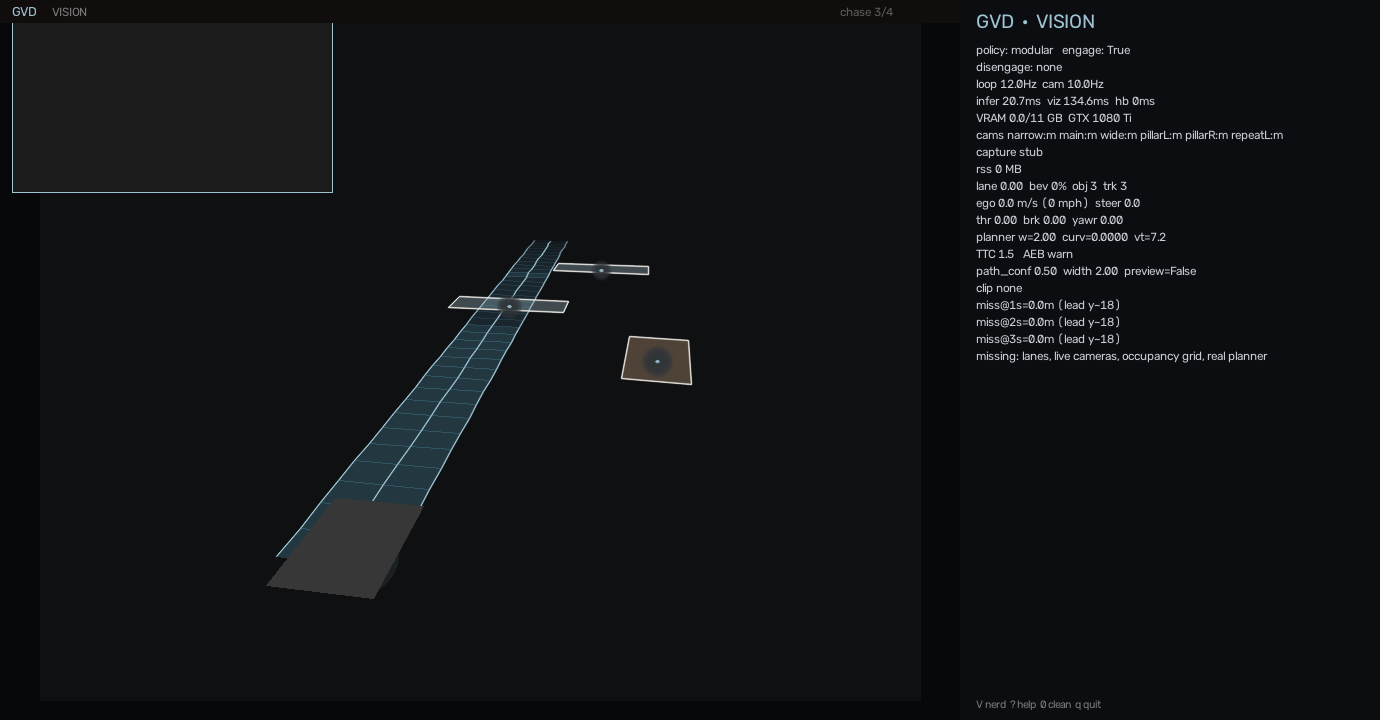
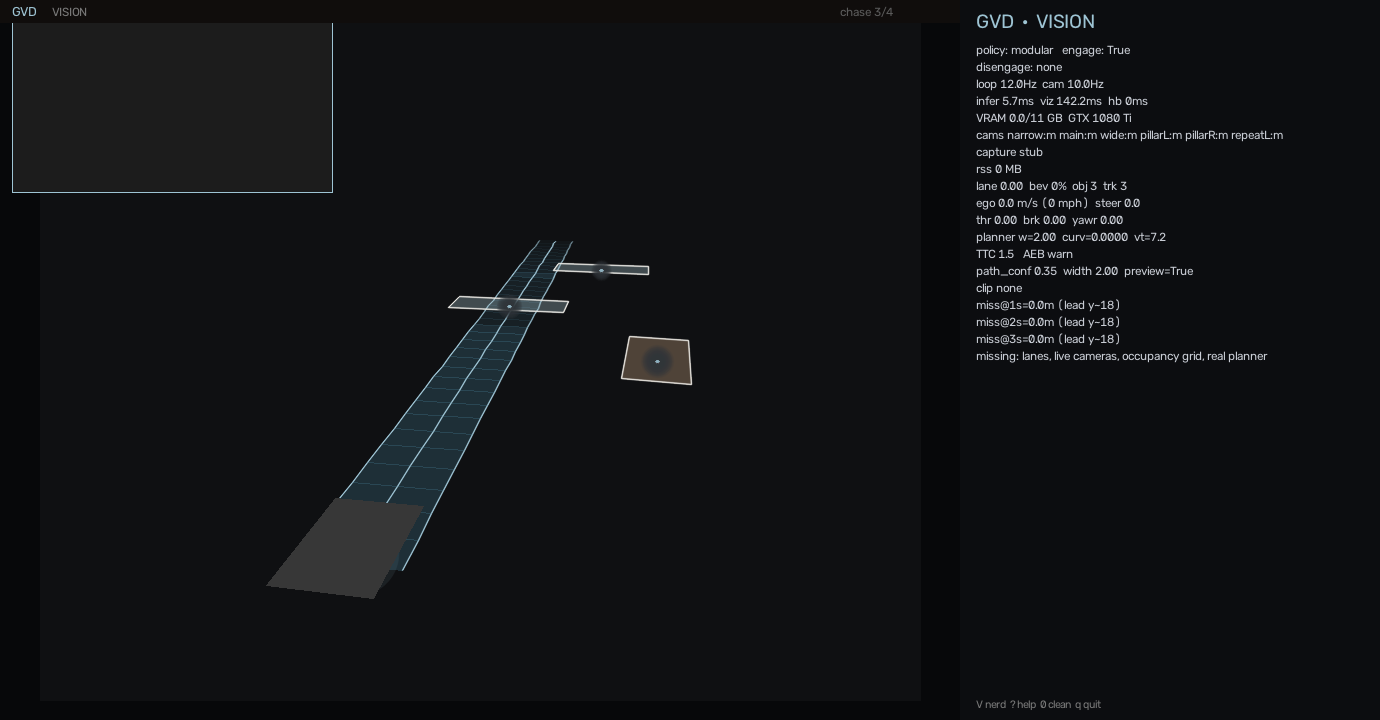
fix(m2): Critic 1–5 — honest path_debug_preview, no live synth
Corridor from_planner only on lane-derived path; live default empty
detector + ego_v=0 (no invented TTC); schema/README/export docs.

diff --git a/python/planning/corridor.py b/python/planning/corridor.py
@@ -13,7 +13,7 @@ class CorridorResult:
     path_width: float
     path_conf: float
     curvature: float
-    from_planner: bool  # True → path_debug_preview=false
+    from_planner: bool  # True → path_debug_preview=false (lane-derived only)
 
 
 def build_path_ego(
@@ -27,34 +27,55 @@ def build_path_ego(
     step: float = 1.0,
     path_width: float = 2.0,
 ) -> CorridorResult:
-    # Lane center if we have left+right
+    """Build path_ego.
+
+    `from_planner=True` only when left+right lanes produced a center line.
+    Geometric/steer fallback keeps from_planner=False → path_debug_preview stays true.
+    """
     center_xy: list[tuple[float, float]] = []
+    from_lanes = False
     if len(lanes_bev) >= 2 and lane_conf >= 0.5:
-        # pair by y buckets
         left = sorted(lanes_bev[0], key=lambda p: p["y"])
         right = sorted(lanes_bev[1], key=lambda p: p["y"])
         for i in range(0, min(len(left), len(right), int(length_m))):
-            center_xy.append(((left[i]["x"] + right[i]["x"]) * 0.5, (left[i]["y"] + right[i]["y"]) * 0.5))
-    if not center_xy:
-        # geometric corridor from curvature / steer
+            center_xy.append(
+                (
+                    (left[i]["x"] + right[i]["x"]) * 0.5,
+                    (left[i]["y"] + right[i]["y"]) * 0.5,
+                )
+            )
+        from_lanes = len(center_xy) >= 2
+
+    if not from_lanes:
         curv = curvature if abs(curvature) > 1e-4 else (steer_deg / 30.0) * 0.03
         x = y = heading = 0.0
+        center_xy = []
         for _ in range(int(length_m / step) + 1):
             center_xy.append((x, y))
             y += step
             heading += curv * step
             x += math.sin(heading) * step * 0.5
 
-    # nudge path away from CIPV if slightly offset
-    if cipv is not None:
+    if from_lanes and cipv is not None:
         lx = float(cipv.get("x", 0))
         if abs(lx) < path_width:
             shift = -0.3 * (1 if lx >= 0 else -1)
             center_xy = [(x + shift, y) for x, y in center_xy]
 
     path = [{"x": float(x), "y": float(y), "z": 0.0} for x, y in center_xy]
-    conf = max(0.35, min(1.0, 0.4 + 0.5 * lane_conf))
-    if cipv is not None:
-        conf = min(1.0, conf + 0.1)
-    # Always a planner path (even geometric) — not steer-preview stub
-    return CorridorResult(path_ego=path, path_width=path_width, path_conf=conf, curvature=float(curvature), from_planner=True)
+    if from_lanes:
+        conf = max(0.45, min(1.0, 0.4 + 0.5 * lane_conf))
+        if cipv is not None:
+            conf = min(1.0, conf + 0.1)
+        curv_out = float(curvature)
+    else:
+        conf = 0.35
+        curv_out = float(curvature if abs(curvature) > 1e-4 else (steer_deg / 30.0) * 0.03)
+
+    return CorridorResult(
+        path_ego=path,
+        path_width=path_width,
+        path_conf=conf,
+        curvature=curv_out,
+        from_planner=from_lanes,
+    )

diff --git a/scripts/download_yolov8n.py b/scripts/download_yolov8n.py
@@ -1,9 +1,16 @@
 #!/usr/bin/env python3
-"""Download YOLOv8n and optionally export ONNX @640 into models/ (gitignored weights)."""
+"""Download YOLOv8n and export ONNX @640 into models/ (gitignored).
+
+Reliable one-liner (preferred):
+  pip install ultralytics
+  yolo export model=yolov8n.pt format=onnx imgsz=640 simplify=True
+  mv yolov8n.onnx models/yolov8n.onnx
+"""
 
 from __future__ import annotations
 
 import argparse
+import shutil
 from pathlib import Path
 
 ROOT = Path(__file__).resolve().parents[1]
@@ -11,35 +18,28 @@ MODELS = ROOT / "models"
 
 
 def main() -> None:
-    ap = argparse.ArgumentParser()
-    ap.add_argument("--onnx", action="store_true", help="Export models/yolov8n.onnx @ imgsz 640")
+    ap = argparse.ArgumentParser(description=__doc__)
+    ap.add_argument("--onnx", action="store_true", default=True)
+    ap.add_argument("--no-onnx", action="store_true")
     args = ap.parse_args()
     MODELS.mkdir(parents=True, exist_ok=True)
     from ultralytics import YOLO
 
-    model = YOLO("yolov8n.pt")  # downloads to cwd/cache then we copy intent
-    pt = MODELS / "yolov8n.pt"
-    # ultralytics caches; save explicitly
-    model.save(str(pt)) if hasattr(model, "save") else None
-    # Prefer writing via export path
-    if not pt.exists():
-        # model.ckpt path
-        src = Path(model.ckpt_path) if hasattr(model, "ckpt_path") else None
-        if src and src.exists():
-            pt.write_bytes(src.read_bytes())
-        else:
-            # re-load downloads into models via export trick
-            model = YOLO("yolov8n.pt")
-            print(f"[GVD] ultralytics has yolov8n; place weights in {pt} if missing")
-    if args.onnx:
-        model = YOLO(str(pt) if pt.exists() else "yolov8n.pt")
-        out = model.export(format="onnx", imgsz=640, simplify=True)
-        out_p = Path(out)
-        dest = MODELS / "yolov8n.onnx"
-        if out_p.exists():
-            dest.write_bytes(out_p.read_bytes())
-            print(f"[GVD] wrote {dest}")
-    print(f"[GVD] done. gitignore covers *.pt / *.onnx under models/")
+    print("[GVD] loading yolov8n.pt via ultralytics…")
+    model = YOLO("yolov8n.pt")
+    if args.no_onnx:
+        print("[GVD] skipped ONNX; run: yolo export model=yolov8n.pt format=onnx imgsz=640")
+        return
+    print("[GVD] exporting ONNX imgsz=640…")
+    out = model.export(format="onnx", imgsz=640, simplify=True)
+    out_p = Path(str(out))
+    dest = MODELS / "yolov8n.onnx"
+    if out_p.exists():
+        shutil.copy2(out_p, dest)
+        print(f"[GVD] wrote {dest}")
+    else:
+        print("[GVD] export returned no file — use the yolo export one-liner in the docstring")
+    print("[GVD] weights are gitignored (*.pt / *.onnx).")
 
 
 if __name__ == "__main__":

diff --git a/python/run_vision.py b/python/run_vision.py
@@ -54,7 +54,11 @@ def main() -> None:
     ap.add_argument("--hz", type=float, default=15.0)
     ap.add_argument("--backend", default="auto", choices=["auto", "beamngpy", "window", "stub"])
     ap.add_argument("--vision-only", action="store_true")
-    ap.add_argument("--no-synthetic-detect", action="store_true", help="Do not use synthetic dets without weights")
+    ap.add_argument(
+        "--allow-synthetic-detect",
+        action="store_true",
+        help="Allow synthetic detections without YOLO weights (default: smoke only)",
+    )
     args = ap.parse_args()
 
     if args.vision_only:
@@ -76,7 +80,7 @@ def main() -> None:
 
     backend = make_backend(backend_name if args.backend != "auto" else backend_name)
     backend.open()
-    perc = ModularPerception(allow_synthetic=not args.no_synthetic_detect)
+    perc = ModularPerception(allow_synthetic=args.allow_synthetic_detect)
     print(f"[GVD] camera backend={backend.name} detector={perc.detector.name}")
     print(f"[GVD] state path: {state_path()}")
     print("[GVD] Vision-only: no LiDAR/radar/GPS-loc/HD-map in the live loop.")
@@ -101,8 +105,9 @@ def main() -> None:
                 cam_hz_ema = inst if cam_hz_ema <= 0 else (0.8 * cam_hz_ema + 0.2 * inst)
                 last_cam_t = now
 
+            # Ego speed: use last known / future BeamNG electrics. Do not invent 10 m/s for TTC.
             steer = 0.0
-            ego_v = 10.0
+            ego_v = 0.0
             pout = perc.tick(main, ego_speed_mps=ego_v, steer_deg=steer)
 
             st = default_state(

diff --git a/python/perception/track.py b/python/perception/track.py
@@ -54,11 +54,9 @@ class IoUTracker:
                 continue
             d = dets[best_i]
             unmatched.discard(best_i)
-            # speed from y delta
+            # Weak relative Δy/dt hint only — NOT absolute road speed (CIPV uses ego_speed for closing).
             vy = (d.y - tr.y) / dt
-            tr.speed_mps = 0.7 * tr.speed_mps + 0.3 * max(0.0, -vy)  # closing positive later in CIPV
-            # store absolute along-road speed estimate from forward motion of box
-            tr.speed_mps = float(max(0.0, min(40.0, abs(vy))))
+            tr.speed_mps = float(max(0.0, min(40.0, 0.8 * tr.speed_mps + 0.2 * abs(vy))))
             tr.x, tr.y, tr.yaw = d.x, d.y, d.yaw
             tr.conf = d.conf
             tr.hits += 1

diff --git a/python/perception/cipv.py b/python/perception/cipv.py
@@ -36,9 +36,11 @@ def select_cipv(
         return CipvResult(track=None, ttc_lead=None, aeb="off")
     lead = min(candidates, key=lambda t: float(t.get("y", 1e9)))
     y = float(lead.get("y", 0))
-    v_lead = float(lead.get("speed_mps", 0))
-    # closing speed: ego approaching lead
-    closing = max(ego_speed_mps - v_lead, 0.1)
+    # Relative closing only. Unknown ego_speed → no invented TTC/AEB.
+    if ego_speed_mps <= 0.05:
+        return CipvResult(track=lead, ttc_lead=None, aeb="off")
+    v_lead_along = float(lead.get("speed_mps", 0.0))  # weak Δy hint, not absolute road speed
+    closing = max(ego_speed_mps - min(v_lead_along, ego_speed_mps * 0.9), 0.1)
     ttc = y / closing
     aeb = "off"
     if ttc < 1.2:

diff --git a/README.md b/README.md
@@ -45,11 +45,11 @@ mods\unpacked\gvd\
 
 ## Status
 
-**M2 (perception):** modular detect→track→CIPV→corridor on `cam_main` (YOLOv8n ONNX if present, else synthetic dets for offline). OpenCV lanes. `path_debug_preview=false` when corridor produces path.
+**M2 (perception, this PR):** modular detect→track→CIPV→corridor on `cam_main`. YOLOv8n ONNX if present; **live default = no synthetic cars** (`--allow-synthetic-detect` / `--smoke` only). `path_debug_preview=false` only for lane-derived corridor.
 
 **M1 (cameras + hw probe):** honest `CameraBackend` (`beamngpy | window | stub`), 8-cam mounts in `config/cameras.yaml`, `hw_probe` boot line, `--backend` flag. Viz PR #2 merged (ice-blue ribbon + OpenCV cabin). Live BeamNG Camera attach / Alt+A still **UNPROVEN on Linux** — confirm on Windows + Tech.
 
-M2 perception / M3 actuation / M4 clips next.
+M3 actuation / M4 clips next.
 
 Host profile (target): Intel **i9-9900K** + **UHD 630** (QSV encode) + **GTX 1080 Ti 11 GB** (infer ≤4 GB) + **32 GB DDR4**. See `config/hardware.yaml`.
 
@@ -103,6 +103,7 @@ Vision-only: no LiDAR/radar/GPS-loc/HD-map in the live loop. Inspired by VisionP
 ```bash
 pip install -r requirements.txt
 pip install -r requirements-perception.txt   # optional
-python scripts/download_yolov8n.py --onnx      # models/ gitignored
+python scripts/download_yolov8n.py --onnx
+# or: yolo export model=yolov8n.pt format=onnx imgsz=640 simplify=True && mv yolov8n.onnx models/
 PYTHONPATH=. python python/run_vision.py --smoke
 ```

diff --git a/docs/gvd_state_schema.md b/docs/gvd_state_schema.md
@@ -8,7 +8,7 @@ Path: `%USERPROFILE%\Documents\GVD\gvd_state.json` (written by `python/run_visio
 | `path_world` | optional same | If set, GELua draws this directly |
 | `path_width` | m | Default ~2.0 (1.8–2.2 aesthetic) |
 | `path_conf` | 0–1 | Low → thinner/shorter/darker ribbon |
-| `path_debug_preview` | bool | True when path is steer-preview stub |
+| `path_debug_preview` | bool | `false` only when corridor path came from lanes; geometric/steer fallback stays `true` |
 | `gvd_show_path` | bool | Default true |
 | `show_agent_ghosts` | bool | Default false; dim agent mode-0 only |
 | `agents[]` | optional | `id`, `path_ego` for forecast mode 0 |
@@ -23,3 +23,12 @@ Lua: `gvd_main.drawPath` on `onPreRender` / `onDebugDraw`. Engaged-only (Alt+A).
 | `capture_note` | string | e.g. `retail: 1 window` |
 | `rss_mb` | float | supervisor RSS; >12 GB is a bug |
 | `cam_health.narrow` | enum | added in M1 8-cam set |
+
+
+## M2 fields
+
+| `detector` | string | `empty` / `synthetic` / `yolov8n-onnx` / `yolov8n-ultra` |
+| `tracks[]` | list | id, class, x,y,yaw,speed_mps (weak Δy hint),… ego frame |
+| `planner.cipv_id` | int? | lead track id in path tube |
+| `planner.ttc_lead` | float? | seconds; null if ego_speed unknown |
+| `planner.aeb` | off/warn/brake | state flag only (M2); needs ego_speed > 0 |
